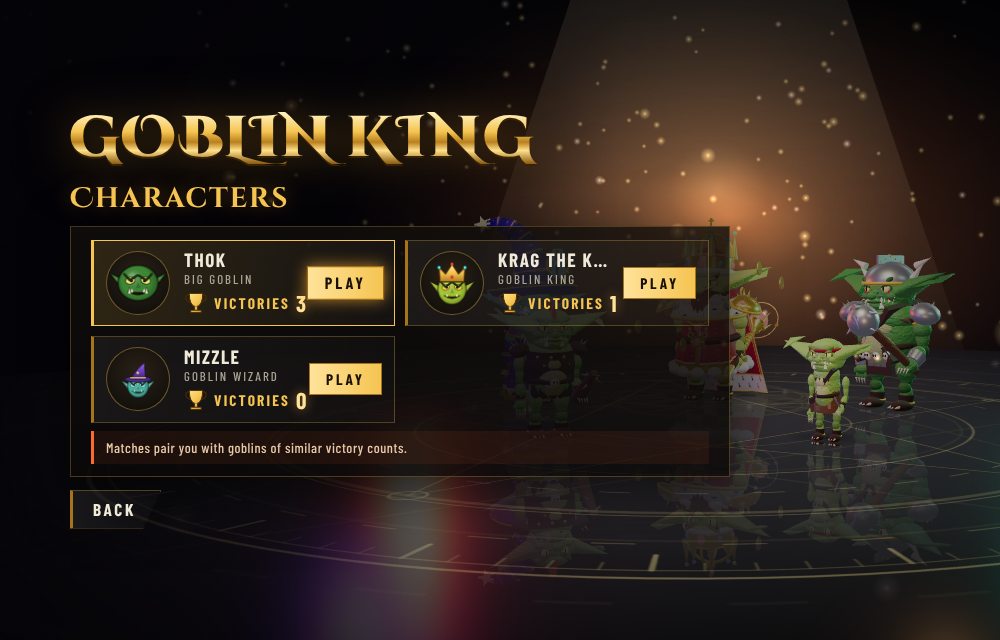
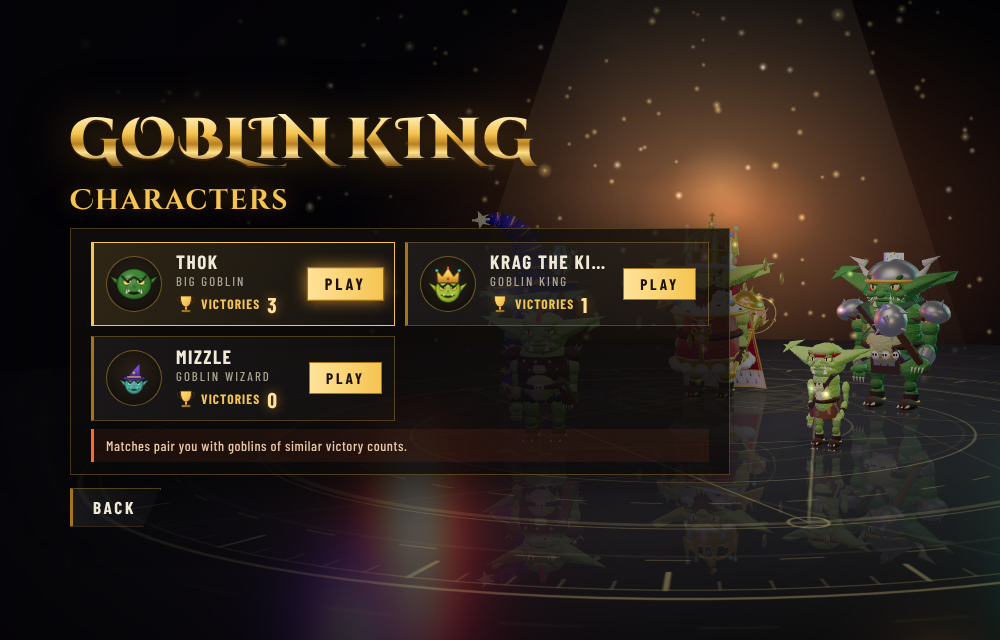
Goblin brain item, recycler server, agent progress
Claude-Session: https://claude.ai/code/session_01DoWV5Cryftzycvs2knrXTv

diff --git a/game.js b/game.js
@@ -152,7 +152,7 @@ const vaultM = M(0x70787f, { map: steelTex, metalness: 0.9, roughness: 0.38, env
 const darkSteel = M(0x2a2e35, { metalness: 0.8, roughness: 0.45, envMapIntensity: 0.9 });
 const hazardM = M(0xffffff, { map: hazardTex, roughness: 0.6 });
 const glassM = new THREE.MeshStandardMaterial({ color: 0x07131c, roughness: 0.05, metalness: 0.2, emissive: 0x0b3a55, emissiveIntensity: 0.8 });
-const panelM = new THREE.MeshBasicMaterial({ color: new THREE.Color(0xfff6e6).multiplyScalar(6), toneMapped: false });   // HDR so the bloom pass picks the ceiling panels up
+const panelM = new THREE.MeshBasicMaterial({ color: new THREE.Color(0xfff6e6).multiplyScalar(2.4), toneMapped: false });   // HDR so the bloom pass picks the ceiling panels up
 const aoM = new THREE.MeshBasicMaterial({ map: aoTex, transparent: true, depthWrite: false, polygonOffset: true, polygonOffsetFactor: -2, polygonOffsetUnits: -2, side: THREE.DoubleSide, fog: false });
 const cornerM = new THREE.MeshBasicMaterial({ map: cornerTex, transparent: true, depthWrite: false, polygonOffset: true, polygonOffsetFactor: -2, polygonOffsetUnits: -2, side: THREE.DoubleSide });
 
@@ -670,7 +670,7 @@ const chestSlots = [];                    // per chest room: {holder, glow, labe
   const rnd = (() => { let s = 1234567; return () => (s = (s * 1664525 + 1013904223) >>> 0) / 4294967296; })();
   const addGlow = (parent, color, size, op, x, y, z) => {
     const s = new THREE.Sprite(new THREE.SpriteMaterial({ map: glowTex, color, transparent: true, opacity: op, blending: THREE.AdditiveBlending, depthWrite: false, fog: false }));
-    s.scale.set(size, size, 1); s.position.set(x, y, z); parent.add(s); return s;
+    s.material.userData.own = true; s.scale.set(size, size, 1); s.position.set(x, y, z); parent.add(s); return s;
   };
   // ----- textures and materials -----
   const woodTex = canvasTex(256, 256, (g, w, h) => {
@@ -836,9 +836,185 @@ const chestSlots = [];                    // per chest room: {holder, glow, labe
   const labelMats = [];
   const getLabel = i => labelMats[i] || (labelMats[i] = new THREE.SpriteMaterial({ map: textTex(WEAPONS[i], '#' + RARITY[i].toString(16).padStart(6, '0'), 'rgba(12,8,4,.55)', 512, 96, 'bold 54px system-ui'), transparent: true, depthWrite: false, fog: false }));
 
-  // ----- chest rooms -----
+  // ----- more weapon families (club, crossbow, flail, halberd, hammer, staff, scepter) + tier styling -----
+  const rodBetween = (p, a, b, r, mat) => { const d = new THREE.Vector3().subVectors(b, a), m = new THREE.Mesh(new THREE.CylinderGeometry(r, r, d.length(), 6), mat); m.position.copy(a).addScaledVector(d, 0.5); m.quaternion.setFromUnitVectors(new THREE.Vector3(0, 1, 0), d.normalize()); p.add(m); return m; };
+  const crystalM = new THREE.MeshStandardMaterial({ color: 0x66aaff, emissive: 0x3377ff, emissiveIntensity: 1.6, roughness: 0.2, metalness: 0.1 });
+  const spikeRing = (p, cx, cy, n, r, len, mat) => { for (let i = 0; i < n; i++) { const y = 1 - (i + 0.5) * 2 / n, rr = Math.sqrt(1 - y * y), a = i * 2.39996, d = new THREE.Vector3(Math.cos(a) * rr, y, Math.sin(a) * rr); const c = cone(p, 0.03, len, mat, 0, 6); c.position.set(cx + d.x * r, cy + d.y * r, d.z * r); c.quaternion.setFromUnitVectors(new THREE.Vector3(0, 1, 0), d); } };
+  builders.push(
+    p => { // 6 club
+      cy2(p, 0.035, 0.11, 1.0, hwoodM, 0, 12); cy2(p, 0.04, 0.04, 0.28, leatherM, -0.34); wrap(p, -0.46, -0.22, 0.041, 5); ball(p, 0.05, goldM, -0.52);
+      for (let i = 0; i < 9; i++) { const a = i * 2.4, d = new THREE.Vector3(Math.cos(a), 0, Math.sin(a)), c = cone(p, 0.022, 0.1, steel2, 0, 6); c.position.set(d.x * 0.1, 0.18 + (i % 3) * 0.13, d.z * 0.1); c.quaternion.setFromUnitVectors(new THREE.Vector3(0, 1, 0), d); }
+    },
+    p => { // 7 crossbow
+      bx(p, 0.07, 1.0, 0.1, 0, 0, 0, hwoodM, 1); bx(p, 0.1, 0.3, 0.12, 0, -0.45, 0, hwoodM, 1);
+      for (const s of [-1, 1]) { const l = bx(p, 0.5, 0.045, 0.05, s * 0.24, 0.32, 0, steel2, 1); l.rotation.z = s * 0.25; rodBetween(p, new THREE.Vector3(s * 0.47, 0.38, 0), new THREE.Vector3(0, 0.02, 0), 0.006, leatherM); }
+      cy2(p, 0.012, 0.012, 0.55, hwoodM, 0.3, 6).position.z = 0.07; cone(p, 0.03, 0.12, steel2, 0.62, 4).position.z = 0.07; bx(p, 0.1, 0.02, 0.1, 0, 0.58, 0, goldM, 1);
+      const st = new THREE.Mesh(new THREE.TorusGeometry(0.06, 0.012, 6, 14), ironM); st.position.y = 0.5; st.rotation.y = Math.PI / 2; p.add(st);
+    },
+    p => { // 8 flail
+      cy2(p, 0.03, 0.03, 0.7, hwoodM, -0.2, 10); cy2(p, 0.036, 0.036, 0.26, leatherM, -0.4); ball(p, 0.045, goldM, -0.58); cy2(p, 0.05, 0.05, 0.04, goldM, 0.16);
+      for (let i = 0; i < 5; i++) { const l = new THREE.Mesh(new THREE.TorusGeometry(0.035, 0.01, 6, 10), ironM); l.position.set(0.03 + i * 0.07, 0.24 + i * 0.07 - i * i * 0.006, 0); l.rotation.y = (i & 1) * Math.PI / 2; p.add(l); }
+      ball(p, 0.13, spikeM, 0).position.set(0.42, 0.5, 0); spikeRing(p, 0.42, 0.5, 12, 0.14, 0.14, spikeM);
+    },
+    p => { // 9 halberd
+      cy2(p, 0.025, 0.025, 1.9, hwoodM, 0, 10); cone(p, 0.045, 0.34, steel2, 1.12, 4); cy2(p, 0.04, 0.04, 0.05, goldM, 0.94); cy2(p, 0.04, 0.04, 0.05, goldM, 0.6); cy2(p, 0.036, 0.036, 0.3, leatherM, -0.2); cy2(p, 0.02, 0.02, 0.06, steel2, -0.97, 6);
+      const s = new THREE.Shape(); s.moveTo(0, 0.56); s.lineTo(0.4, 0.46); s.quadraticCurveTo(0.5, 0.22, 0.36, 0.0); s.lineTo(0, 0.14); s.closePath();
+      const g = new THREE.ExtrudeGeometry(s, { depth: 0.03, bevelEnabled: true, bevelSize: 0.012, bevelThickness: 0.012, bevelSegments: 1 }); g.translate(0.02, 0, -0.015);
+      const h = new THREE.Mesh(g, bladeM); h.position.y = 0.42; p.add(h); const hk = cone(p, 0.03, 0.24, steel2, 0.7, 5); hk.rotation.z = Math.PI / 2; hk.position.x = -0.12;
+    },
+    p => { // 10 warhammer
+      cy2(p, 0.03, 0.03, 1.3, hwoodM, 0, 10); cy2(p, 0.036, 0.036, 0.3, leatherM, -0.3); wrap(p, -0.42, -0.18, 0.037, 5); ball(p, 0.05, goldM, -0.66);
+      bx(p, 0.5, 0.22, 0.22, 0, 0.58, 0, ironM, 1); for (const s of [-1, 1]) bx(p, 0.04, 0.26, 0.26, s * 0.2, 0.58, 0, goldM, 1);
+      const sp = cone(p, 0.05, 0.22, spikeM, 0.58, 4); sp.rotation.z = Math.PI / 2; sp.position.x = -0.35; cone(p, 0.05, 0.2, spikeM, 0.78, 4);
+    },
+    p => { // 11 staff
+      cy2(p, 0.04, 0.03, 0.7, hwoodM, -0.55, 8).position.x = 0.01; cy2(p, 0.03, 0.04, 0.6, hwoodM, 0.05, 8).position.x = -0.015; cy2(p, 0.04, 0.03, 0.4, hwoodM, 0.55, 8);
+      for (const [y, a] of [[-0.3, 0.8], [0.2, 3], [0.45, 5]]) { const k = ball(p, 0.045, hwoodM, y); k.position.x = Math.cos(a) * 0.035; k.position.z = Math.sin(a) * 0.035; }
+      for (let i = 0; i < 4; i++) { const a = i * Math.PI / 2, c = cone(p, 0.028, 0.34, hwoodM, 0.88, 6); c.position.set(Math.cos(a) * 0.09, 0.88, Math.sin(a) * 0.09); c.rotation.set(Math.sin(a) * 0.25, 0, -Math.cos(a) * 0.25); }
+      ball(p, 0.1, crystalM, 0.92); cy2(p, 0.03, 0.03, 0.2, leatherM, -0.2); wrap(p, -0.28, -0.12, 0.034, 4);
+    },
+    p => { // 12 scepter
+      cy2(p, 0.03, 0.03, 1.0, goldM, 0, 12); for (const y of [-0.25, 0.1, 0.38]) { const r = new THREE.Mesh(new THREE.TorusGeometry(0.05, 0.016, 8, 16), goldM); r.rotation.x = Math.PI / 2; r.position.y = y; p.add(r); }
+      ball(p, 0.06, goldM, -0.52); ball(p, 0.07, goldM, 0.5);
+      for (let i = 0; i < 5; i++) { const a = i * 1.2566, c = cone(p, 0.03, 0.2, goldM, 0.66, 5); c.position.set(Math.cos(a) * 0.09, 0.66, Math.sin(a) * 0.09); c.rotation.set(Math.sin(a) * 0.2, 0, -Math.cos(a) * 0.2); }
+      ball(p, 0.08, gemMs[0], 0.64);
+    },
+  );
+  WSCALE.push(1.3, 1.25, 1.3, 0.75, 1.0, 0.8, 1.3);
+  const FAM = { sword: 0, axe: 1, spear: 2, mace: 3, bow: 4, dagger: 5, club: 6, crossbow: 7, flail: 8, halberd: 9, hammer: 10, staff: 11, scepter: 12 };
+  const LEGACY_KEYS = ['w:sword', 'w:axe', 'w:spear', 'w:mace', 'w:bow', 'w:dagger'];
+  const TIERS = {
+    common: { col: 0xcfd8e0, size: 1, aura: 0 }, class: { col: 0xff9a3c, size: 1.05, aura: 0.25 },
+    uncommon: { col: 0x6dff8a, size: 1.04, aura: 0.08, tint: [0xb4ffc4, 0x0c4a1a] }, rare: { col: 0x6aa8ff, size: 1.08, aura: 0.3, tint: [0x9cc4ff, 0x103a9a] },
+    epic: { col: 0xc08bff, size: 1.12, aura: 0.55, tint: [0xdcb6ff, 0x4a1a8a] }, legendary: { col: 0xffc040, size: 1.18, aura: 0.85, tint: [0xffe8a0, 0x8a5a00], sparks: 6 },
+  };
+  const itemOf = key => (window.GKITEMS && window.GKITEMS.ITEMS && window.GKITEMS.ITEMS[key]) || null;
+  const hex6 = c => '#' + c.toString(16).padStart(6, '0');
+  const tintCache = new Map();
+  const tinted = (m, tier) => { const t = TIERS[tier]; if (!t || !t.tint) return m; const k = m.uuid + tier; let c = tintCache.get(k); if (!c) { c = m.clone(); c.color.multiply(new THREE.Color(t.tint[0])); c.emissive = new THREE.Color(t.tint[1]); c.emissiveIntensity = tier === 'uncommon' ? 0.35 : 0.8; tintCache.set(k, c); } return c; };
+  const auraMats = {};
+  const auraMat = tier => auraMats[tier] || (auraMats[tier] = new THREE.SpriteMaterial({ map: glowTex, color: TIERS[tier].col, transparent: true, opacity: 0.18 + 0.3 * TIERS[tier].aura, blending: THREE.AdditiveBlending, depthWrite: false, fog: false }));
+  const sparkMat = new THREE.SpriteMaterial({ map: glowTex, color: 0xfff2b0, transparent: true, opacity: 0.9, blending: THREE.AdditiveBlending, depthWrite: false, fog: false });
+  const tierProtos = new Map(), keepGeo = new Set();
+  chestProto.traverse(o => o.geometry && keepGeo.add(o.geometry));
+  function tierProto(fam, tier) {
+    const k = fam + '|' + tier; let w = tierProtos.get(k); if (w) return w;
+    const t = TIERS[tier] || TIERS.common; w = getWeapon(fam).clone(); w.traverse(o => { if (o.geometry) keepGeo.add(o.geometry); if (o.isMesh && t.tint) o.material = tinted(o.material, tier); });
+    w.scale.setScalar(t.size);
+    if (t.aura > 0) { const s = new THREE.Sprite(auraMat(tier)); s.scale.setScalar(1.4 + t.aura * 1.4); s.position.y = 0.15; s.renderOrder = 4; w.add(s); }
+    if (t.sparks) for (let i = 0; i < t.sparks; i++) { const s = new THREE.Sprite(sparkMat); s.scale.setScalar(0.1 + (i % 3) * 0.05); const a = i * 1.7; s.position.set(Math.cos(a) * 0.35, -0.5 + i * 0.22, Math.sin(a) * 0.35); w.add(s); }
+    tierProtos.set(k, w); return w;
+  }
+  function armorModel(it) {
+    const tier = it.tier || 'common', t = TIERS[tier] || TIERS.common, fam = it.family;
+    const base = fam === 'cloth' ? 0x9a8a68 : fam === 'leather' ? 0x7a4e2c : fam === 'harness' ? 0x6a3a28 : fam === 'robe' ? 0x3a2a8a : fam === 'royal' ? 0x8a1020 : 0xaab3c0;
+    const metal = fam === 'mail' || fam === 'plate';
+    let mm = M(base, { roughness: metal ? 0.35 : 0.85, metalness: metal ? 0.9 : 0.05, envMapIntensity: metal ? 1.6 : 0.4 }); if (t.tint) mm = tinted(mm, tier);
+    const g = new THREE.Group(), sc = 0.85 * t.size;
+    const body = new THREE.Mesh(new THREE.CylinderGeometry(0.32, 0.26, 0.62, 14), mm); g.add(body);
+    for (const s of [-1, 1]) { const sh = ball(g, 0.15, mm, 0.28); sh.position.x = s * 0.34; sh.scale.set(1.1, 0.8, 1); const sl = new THREE.Mesh(new THREE.CylinderGeometry(0.1, 0.09, 0.3, 10), mm); sl.position.set(s * 0.43, 0.14, 0); sl.rotation.z = s * 0.3; g.add(sl); }
+    const nk = new THREE.Mesh(new THREE.TorusGeometry(0.13, 0.04, 8, 14), mm); nk.rotation.x = Math.PI / 2; nk.position.y = 0.31; g.add(nk);
+    const belt = new THREE.Mesh(new THREE.CylinderGeometry(0.28, 0.28, 0.07, 14), leatherM); belt.position.y = -0.12; g.add(belt); bx(g, 0.1, 0.09, 0.05, 0, -0.12, 0.28, goldM, 1);
+    if (fam === 'plate') for (let i = 0; i < 3; i++) bx(g, 0.5, 0.025, 0.04, 0, 0.12 - i * 0.14, 0.31, goldM, 1);
+    g.scale.setScalar(sc);
+    const w = new THREE.Group(); w.add(g); if (t.aura > 0) { const s = new THREE.Sprite(auraMat(tier)); s.scale.setScalar(1.3 + t.aura * 1.3); w.add(s); }
+    w.traverse(o => o.geometry && keepGeo.add(o.geometry)); return w;
+  }
+  const armorProtos = new Map();
+  function weaponModel(key) {   // fresh Object3D for any item key ('w:axe', 'a:chain', ...), a family name or a legacy chest index; built along +y, ~1.5 m tall
+    if (typeof key === 'number') key = LEGACY_KEYS[key] || 'w:sword';
+    let it = itemOf(key) || itemOf('w:' + key);
+    if (!it) it = { type: 'weapon', family: FAM[String(key).replace(/^w:/, '')] != null ? String(key).replace(/^w:/, '') : 'sword', tier: 'common' };
+    if (it.type === 'armor') { const k = it.key || key; let a = armorProtos.get(k); if (!a) armorProtos.set(k, a = armorModel(it)); return a.clone(); }
+    const fam = FAM[it.family] != null ? FAM[it.family] : 0;
+    return tierProto(fam, it.tier || 'common').clone();
+  }
+  const labelCache = new Map();
+  const labelFor = key => {   // shared sprite material: 'Battle Axe · 30 dmg' in the tier colour
+    if (typeof key === 'number') key = LEGACY_KEYS[key] || 'w:sword'; let m = labelCache.get(key); if (m) return m;
+    const it = itemOf(key) || { name: String(key), attack: 0, tier: 'common' }, t = TIERS[it.tier] || TIERS.common;
+    m = new THREE.SpriteMaterial({ map: textTex(it.name + (it.attack != null && it.type !== 'armor' ? ' \u00b7 ' + it.attack + ' dmg' : it.health ? ' \u00b7 ' + it.health + ' HP' : ''), hex6(t.col), 'rgba(12,8,4,.6)', 640, 96, 'bold 46px system-ui'), transparent: true, depthWrite: false, fog: false });
+    labelCache.set(key, m); return m;
+  };
+
+  // ----- shared toolkit for the room interiors and the stations -----
   const CW = CS / 2, IN = CW - T / 2;
-  const roomTick = [];
+  const slots = [];                         // per outer room: { cr, g (shell group), shell, inner (rebuildable interior group), flames, built }
+  const cacheM = new Map(), cache = (k, f) => { let v = cacheM.get(k); if (v === undefined) { v = f(); cacheM.set(k, v); } return v; };
+  const kgeo = (k, f) => cache('g:' + k, () => { const g = f(); keepGeo.add(g); return g; });
+  const mat = (k, f) => cache('m:' + k, f);
+  const ctex = (k, w, h, draw, clamp = true) => cache('t:' + k, () => { const t = canvasTex(w, h, draw); if (clamp) t.wrapS = t.wrapT = THREE.ClampToEdgeWrapping; return t; });
+  const GB = kgeo('box', () => new THREE.BoxGeometry(1, 1, 1)), GS = kgeo('sph', () => new THREE.SphereGeometry(1, 20, 14)), GC = kgeo('cyl', () => new THREE.CylinderGeometry(1, 1, 1, 20)), GN = kgeo('cone', () => new THREE.ConeGeometry(1, 1, 14)), GP = kgeo('pln', () => new THREE.PlaneGeometry(1, 1));
+  const mkm = (p, geo, m, x, y, z, sx = 1, sy = sx, sz = sx) => { const o = new THREE.Mesh(geo, m); o.position.set(x, y, z); o.scale.set(sx, sy, sz); p.add(o); return o; };
+  const sph = (p, m, x, y, z, a, b = a, c = a) => mkm(p, GS, m, x, y, z, a, b, c);
+  const box = (p, m, x, y, z, w, h, d) => mkm(p, GB, m, x, y, z, w, h, d);
+  const cyl2 = (p, m, x, y, z, r, h) => mkm(p, GC, m, x, y, z, r, h, r);
+  const cne = (p, m, x, y, z, r, h) => mkm(p, GN, m, x, y, z, r, h, r);
+  const pln = (p, m, x, y, z, w, h) => mkm(p, GP, m, x, y, z, w, h, 1);
+  const tapG = (rt, rb, seg) => kgeo('tap' + rt + ',' + rb + ',' + seg, () => new THREE.CylinderGeometry(rt, rb, 1, seg));
+  const tap = (p, m, x, y, z, rt, rb, h, seg = 16) => mkm(p, tapG(rt, rb, seg), m, x, y, z, 1, h, 1);
+  const tor = (p, m, x, y, z, r, tube) => mkm(p, kgeo('tor' + (tube / r).toFixed(3), () => new THREE.TorusGeometry(1, tube / r, 8, 24)), m, x, y, z, r);
+  const tickList = [];                      // { root, fn(t, dt) }: run every frame while root is part of the scene
+  const addTick = (root, fn) => tickList.push({ root, fn });
+  const attached = o => { while (o.parent) o = o.parent; return o === scene; };
+  const freezeTree = root => root.traverse(o => { if (chestDyn.has(o)) return; o.updateMatrix(); o.matrixAutoUpdate = false; });
+  const dyn = o => { chestDyn.add(o); o.matrixAutoUpdate = true; return o; };
+  const disposeTree = root => root.traverse(o => {
+    chestDyn.delete(o);
+    if (o.geometry && !keepGeo.has(o.geometry)) o.geometry.dispose();
+    if (o.isInstancedMesh) o.dispose();
+    if (o.material && o.material.userData && o.material.userData.own) o.material.dispose();
+  });
+  const targetsOf = (arr, pred) => { for (let i = arr.length; i--;) if (pred(arr[i])) arr.splice(i, 1); };
+  GK.merchantTargets = GK.merchantTargets || []; GK.stationTargets = GK.stationTargets || [];
+  const prune = () => {
+    for (let i = chestSlots.length; i--;) if (!attached(chestSlots[i].holder)) chestSlots.splice(i, 1);
+    for (let i = tickList.length; i--;) if (!attached(tickList[i].root)) tickList.splice(i, 1);
+    targetsOf(GK.merchantTargets, o => !attached(o)); targetsOf(GK.stationTargets, o => !attached(o));
+  };
+  const nameSprites = new Map();
+  const nameplate = (parent, text, x, y, z, w = 2.4, col = '#ffe9a8') => {   // floating label, readable from the overview camera
+    let m = nameSprites.get(text + col); if (!m) nameSprites.set(text + col, m = new THREE.SpriteMaterial({ map: textTex(text, col, 'rgba(20,12,6,.7)', 512, 96, 'bold 52px system-ui'), transparent: true, depthWrite: false, fog: false }));
+    const s = new THREE.Sprite(m); s.scale.set(w, w * 96 / 512, 1); s.position.set(x, y, z); s.renderOrder = 6; parent.add(s); return s;
+  };
+  const plaqueMats = new Map();
+  const plaque = (parent, text, x, y, z, w, h, rotY = 0) => {   // framed brass plate on a wall or post (local +z faces the viewer)
+    let m = plaqueMats.get(text); if (!m) plaqueMats.set(text, m = new THREE.MeshStandardMaterial({ map: canvasTex(512, 128, (g, cw, ch) => {
+      g.fillStyle = '#2a1a0c'; g.fillRect(0, 0, cw, ch); g.strokeStyle = '#d9a82b'; g.lineWidth = 8; g.strokeRect(6, 6, cw - 12, ch - 12); g.lineWidth = 2; g.strokeRect(18, 18, cw - 36, ch - 36);
+      g.fillStyle = '#ffe9a8'; g.font = 'bold 62px system-ui'; g.textAlign = 'center'; g.textBaseline = 'middle'; g.fillText(text, cw / 2, ch / 2 + 4);
+    }), roughness: 0.6, metalness: 0.3, emissive: 0xffffff, emissiveIntensity: 0.12 }));
+    plaqueMats.get(text).emissiveMap = plaqueMats.get(text).map;
+    const o = pln(parent, m, x, y, z, w, h); o.rotation.y = rotY; return o;
+  };
+
+  // ----- the chest kit: one implementation of the chest + dais + floating weapon -----
+  function setSlotWeapon(s, k) {   // k: item key string ('w:axe'), family name or legacy index
+    if (k == null) return; if (typeof k === 'number') k = LEGACY_KEYS[k]; if (!k) return;
+    if (s.cur === k) return; s.cur = k;
+    while (s.holder.children.length) s.holder.remove(s.holder.children[0]);
+    const m = weaponModel(k); m.rotation.z = 0.35; s.holder.add(m);
+    m.traverse(o => { o.matrixAutoUpdate = false; o.updateMatrix(); }); m.matrixAutoUpdate = true;
+    const it = itemOf(k), t = TIERS[(it && it.tier) || 'common'] || TIERS.common;
+    s.wglow.material.color.setHex(t.col); s.label.material = labelFor(k); s.label.visible = true; s.holder.updateMatrixWorld(true);
+  }
+  function chestKitBuild(parent, x, z, rotY, opts = {}) {
+    const chest = chestProto.clone(); chest.position.set(x, 0, z); chest.rotation.y = rotY || 0; parent.add(chest);
+    const pool = new THREE.Mesh(new THREE.PlaneGeometry(5.5, 5.5), new THREE.MeshBasicMaterial({ map: glowTex, color: 0xffb040, transparent: true, opacity: 0.35, blending: THREE.AdditiveBlending, depthWrite: false, fog: false })); pool.material.userData.own = true; pool.rotation.x = -Math.PI / 2; pool.position.set(0, 0.02, 0.8); chest.add(pool);
+    const sh = new THREE.Group(); sh.position.set(0, 1.0, 0); chest.add(sh);
+    for (let k = 0; k < 2; k++) { const pl = new THREE.Mesh(new THREE.PlaneGeometry(1.1, 3.4), shaftM); pl.position.y = 1.7; pl.rotation.y = k * Math.PI / 2; pl.renderOrder = 3; sh.add(pl); }
+    const glow = addGlow(chest, 0xffd060, 1.9, 0.6, 0, 1.2, 0); chestDyn.add(glow);
+    const holder = new THREE.Group(); holder.position.set(0, 2.0, 0); chest.add(holder); chestDyn.add(holder);
+    const wglow = addGlow(chest, 0xffffff, 1.8, 0.28, 0, 2.0, 0); chestDyn.add(wglow);
+    const label = new THREE.Sprite(labelFor('w:sword')); label.scale.set(2.9, 0.43, 1); label.position.set(0, 3.75, 0); label.renderOrder = 5; chest.add(label); chestDyn.add(label); label.visible = false;
+    const s = { holder, glow, wglow, label, cur: null, ph: (opts.id || 0) * 1.7 + (opts.id == null ? Math.random() * 6 : 0), base: 2.0, chest, id: opts.id };
+    chestSlots.push(s); freezeTree(chest); s.setWeapon = k => setSlotWeapon(s, k);
+    if (opts.weapon != null) setSlotWeapon(s, opts.weapon);
+    return s;
+  }
+  GK.chestKit = { buildChest: chestKitBuild, weaponModel, labelFor, setWeapon: setSlotWeapon, dispose: root => { disposeTree(root); } };
+  GK.disposeKit = root => { disposeTree(root); prune(); };
+  // ----- chest rooms -----
+  const roomTickUnused = [];
   for (const cr of CHEST_ROOMS) {
     const g = new THREE.Group(); g.position.set(cr.cx, 0, cr.cz); g.rotation.y = Math.atan2(-cr.dx, -cr.dz); scene.add(g);  // local +z faces the door
     bx(g, CS, 0.4, CS, 0, -0.2, 0, cFloorM, CS);
@@ -2270,7 +2446,7 @@ function fxResize() {
     const rt = new THREE.WebGLRenderTarget(innerWidth * pr, innerHeight * pr, { type: THREE.HalfFloatType, samples: 4 });   // MSAA kept inside the composer
     const composer = new EffectComposer(renderer, rt);
     composer.addPass(new RenderPass(scene, cam));
-    const bloom = new UnrealBloomPass(new THREE.Vector2(innerWidth / 2, innerHeight / 2), 0.42, 0.5, 1.5);   // strength, radius, threshold (HDR, linear)
+    const bloom = new UnrealBloomPass(new THREE.Vector2(innerWidth / 2, innerHeight / 2), 0.3, 0.35, 1.7);   // strength, radius, threshold (HDR, linear)
     const bs = bloom.setSize.bind(bloom); bloom.setSize = (w, h) => bs(Math.max(1, w >> 1), Math.max(1, h >> 1));   // bloom at half resolution
     composer.addPass(bloom);
     composer.addPass(new OutputPass());   // tone mapping + sRGB
@@ -2281,7 +2457,7 @@ function fxResize() {
         float hash(vec2 p){ return fract(sin(dot(p, vec2(12.9898, 78.233))) * 43758.5453); }
         void main(){
           vec2 d = vUv - 0.5; float r2 = dot(d, d);
-          vec2 o = d * r2 * 0.014;   // tiny chromatic aberration, zero at the centre
+          vec2 o = d * r2 * 0.006;   // tiny chromatic aberration, zero at the centre
           vec3 c = vec3(texture2D(tDiffuse, vUv + o).r, texture2D(tDiffuse, vUv).g, texture2D(tDiffuse, vUv - o).b);
           c *= 1.0 - 0.34 * smoothstep(0.12, 0.62, r2);   // vignette
           c += (hash(vUv * 1024.0 + fract(uTime) * 61.0) - 0.5) * 0.022;   // film grain

diff --git a/server.js b/server.js
@@ -93,16 +93,17 @@ setInterval(() => { // one global timer steps every match
 // 0 small 30%, 1 medium 30%, 2 big 30%, 3 wizard 9%, 4 king 1%
 // Equipment decides combat stats: attack damage comes from the weapon (items.js), health from the armour.
 const G = require('./items.js'), ITEMS = G.ITEMS;
-const isItem = k => typeof k === 'string' && Object.prototype.hasOwnProperty.call(ITEMS, k);
+const info = k => (typeof k === 'string' && k.length < 40 && G.info(k)) || null; // any item key incl. goblin brains
+const isItem = k => !!info(k);
 const SLOT_IDS = new Set([...Array.from({ length: 9 }, (_, i) => 'b' + i), ...Array.from({ length: 3 }, (_, i) => 'q' + i), 'weapon', 'armor']);
 const getSlot = (inv, id) => id === 'weapon' ? inv.weapon : id === 'armor' ? inv.armor : (id[0] === 'b' ? inv.backpack : inv.quick)[+id.slice(1)];
 const setSlot = (inv, id, v) => { if (id === 'weapon') inv.weapon = v; else if (id === 'armor') inv.armor = v; else (id[0] === 'b' ? inv.backpack : inv.quick)[+id.slice(1)] = v; };
-const fits = (id, key) => key == null || (id === 'weapon' ? ITEMS[key].type === 'weapon' : id === 'armor' ? ITEMS[key].type === 'armor' : true);
+const fits = (id, key) => key == null || (id === 'weapon' ? info(key).type === 'weapon' : id === 'armor' ? info(key).type === 'armor' : true);
 const allItems = inv => [inv.weapon, inv.armor, ...inv.backpack, ...inv.quick].filter(Boolean);
 function recalc(p) { // derived stats from the equipped items
-  const w = p.inv.weapon && ITEMS[p.inv.weapon], a = p.inv.armor && ITEMS[p.inv.armor];
+  const w = p.inv.weapon && info(p.inv.weapon), a = p.inv.armor && info(p.inv.armor);
   const maxHealth = a ? a.health : 10;
-  p.stats = { knowledge: G.KNOWLEDGE[p.goblin], attack: w ? w.attack : 0, health: Math.min(p.stats ? p.stats.health : maxHealth, maxHealth), maxHealth };
+  p.stats = { knowledge: p.stats ? p.stats.knowledge : G.KNOWLEDGE[p.goblin], attack: w ? w.attack : 0, health: Math.min(p.stats ? p.stats.health : maxHealth, maxHealth), maxHealth };
   p.gear = { weapon: w ? w.name : 'None', armor: a ? a.name : 'None' };
 }
 function equip(p, goblin) { // give a player a goblin type with its starting gear and otherwise empty inventory
@@ -167,10 +168,35 @@ function spawn() {
 }
 function die(ws, p) { // a dead player drops everything where they fell and leaves the match
   const m = p.match; if (p.dead || !m) return;
-  const items = allItems(p.inv);
+  const items = allItems(p.inv), brain = G.brainKey(p.stats.knowledge); // the brain carries the victim's CURRENT knowledge
   p.dead = true; leave(m, ws); // the client goes back to the menu or requeues with a new connection
-  addDrop(m, p, items);
-  sendTo(ws, { died: { items } });
+  addDrop(m, p, [...items, brain]);
+  sendTo(ws, { died: { items, brain } });
+}
+function eatBrain(p, key) { // applies a brain's knowledge gain, returns the gain
+  const gain = G.brainGain(key);
+  p.stats.knowledge = Math.round((p.stats.knowledge + gain) * 100) / 100;
+  sendTo(p.ws, { ate: { gain, knowledge: p.stats.knowledge } }); p.match.dirty = true;
+  return gain;
+}
+function eat(p, slot) { // {eat: slotId}
+  if (typeof slot !== 'string' || !/^(b[0-8]|q[0-2])$/.test(slot)) return false;
+  const key = getSlot(p.inv, slot); if (!G.isBrain(key)) return false;
+  setSlot(p.inv, slot, null); eatBrain(p, key); sendInv(p); return true;
+}
+function loot(m, p, a) { // {loot:[dropId, index, 'take'|'eat', expectedKey?]}; returns null or a failure reason
+  if (!Array.isArray(a) || a.length < 3 || a.length > 4 || !Number.isInteger(a[0]) || !Number.isInteger(a[1]) || (a[2] !== 'take' && a[2] !== 'eat')) return 'item';
+  const di = m.drops.findIndex(x => x.id === a[0]), dr = m.drops[di];
+  if (!dr) return 'item';
+  if (Math.hypot(p.x - dr.x, p.z - dr.z) > 3) return 'range';
+  const key = dr.items[a[1]];
+  if (key == null || (a.length === 4 && a[3] !== key)) return 'item';
+  if (a[2] === 'eat') { if (!G.isBrain(key)) return 'item'; }
+  else if (p.inv.backpack.indexOf(null) < 0) return 'space';
+  dr.items.splice(a[1], 1); if (!dr.items.length) m.drops.splice(di, 1);
+  if (a[2] === 'eat') eatBrain(p, key); else giveItem(p, key);
+  bcast(m, { drops: m.drops }); m.dirty = true;
+  return null;
 }
 function win(ws, p) { // everything carried goes home with the winner, nothing is dropped
   const m = p.match; if (p.dead || !m) return;
@@ -210,6 +236,8 @@ wss.on('connection', (ws, req) => {
     } else if (dbg && Array.isArray(d.tp) && d.tp.length === 2 && d.tp.every(v => typeof v === 'number' && Number.isFinite(v))) {
       p.x = clamp(d.tp[0]); p.z = clamp(d.tp[1]); p.box = boxOf(p.x, p.z); p.room = roomKeyOf(p.x, p.z); m.dirty = true;
     } else if (dbg && Number.isFinite(d.gold)) { p.gold = Math.max(0, Math.floor(d.gold)); sendGold(p);
+    } else if (typeof d.eat === 'string') { eat(p, d.eat);
+    } else if (Array.isArray(d.loot)) { const why = loot(m, p, d.loot); if (why) sendTo(ws, { lootFail: why });
     } else if (typeof d.recycle === 'string') {
       const why = recycle(m, p, d.recycle); if (why) sendTo(ws, { recycleFail: why });
     } else if (Array.isArray(d.buy) && d.buy.length === 2) {

diff --git a/icons.js b/icons.js
@@ -23,6 +23,7 @@
   DRAW_FAMILY.flail = g => { g.fillStyle = wood; g.fillRect(-0.035, 0.45, 0.07, 0.48); g.strokeStyle = steel; g.lineWidth = 0.03; g.beginPath(); g.moveTo(0, 0.45); g.quadraticCurveTo(0.22, 0.3, 0.1, 0.18); g.stroke(); g.fillStyle = steel; circ(g, 0.1, 0.16, 0.13); spikes(g, 0.1, 0.16, 0.13, 8); };
   DRAW_FAMILY.halberd = g => { g.fillStyle = wood; g.fillRect(-0.025, 0.12, 0.05, 0.82); g.fillStyle = steel; poly(g, [[0, 0.0], [0.07, 0.16], [-0.07, 0.16]]); poly(g, [[0.02, 0.14], [0.32, 0.1], [0.28, 0.34], [0.02, 0.32]]); poly(g, [[-0.02, 0.2], [-0.16, 0.26], [-0.02, 0.3]]); };
   DRAW_FAMILY.hammer = g => { g.fillStyle = wood; g.fillRect(-0.035, 0.28, 0.07, 0.66); g.fillStyle = steel; g.fillRect(-0.24, 0.08, 0.48, 0.24); g.fillStyle = 'rgba(255,255,255,.35)'; g.fillRect(-0.24, 0.08, 0.48, 0.05); g.fillStyle = dark; g.fillRect(-0.24, 0.17, 0.48, 0.03); };
+  DRAW_FAMILY.brain = g => { const pink = '#e98aa6', dk = '#b5506f'; g.fillStyle = pink; circ(g, -0.14, 0.42, 0.2); circ(g, 0.14, 0.42, 0.2); circ(g, 0, 0.3, 0.2); circ(g, -0.1, 0.58, 0.17); circ(g, 0.1, 0.58, 0.17); g.strokeStyle = dk; g.lineWidth = 0.03; g.lineCap = 'round'; g.beginPath(); g.moveTo(0, 0.18); g.lineTo(0, 0.7); g.stroke(); g.beginPath(); g.arc(-0.16, 0.4, 0.1, 3.4, 5.6); g.stroke(); g.beginPath(); g.arc(0.16, 0.4, 0.1, 3.9, 6.1); g.stroke(); g.beginPath(); g.arc(-0.08, 0.6, 0.08, 3.5, 5.8); g.stroke(); g.beginPath(); g.arc(0.1, 0.6, 0.08, 3.6, 5.9); g.stroke(); g.fillStyle = dk; g.fillRect(-0.05, 0.72, 0.1, 0.12); };
   DRAW_FAMILY.cloth = g => shirt(g, '#9a8a6a', '#5f5240');
   DRAW_FAMILY.leather = g => { shirt(g, '#7a5232', '#3f2a1a'); g.fillStyle = '#c9a74a'; for (let i = 0; i < 4; i++) circ(g, -0.1 + (i % 2) * 0.2, 0.34 + Math.floor(i / 2) * 0.18, 0.025); };
   DRAW_FAMILY.mail = g => { shirt(g, steel, '#4a5058'); g.strokeStyle = 'rgba(0,0,0,.28)'; g.lineWidth = 0.012; for (let y = 0.2; y < 0.88; y += 0.07) { g.beginPath(); g.moveTo(-0.2, y); g.lineTo(0.2, y); g.stroke(); } };
@@ -37,7 +38,7 @@
   function spikes(g, x, y, r, n) { g.fillStyle = steel; for (let i = 0; i < n; i++) { const a = i * 6.2832 / n; poly(g, [[x + Math.cos(a - 0.2) * r, y + Math.sin(a - 0.2) * r], [x + Math.cos(a) * r * 1.5, y + Math.sin(a) * r * 1.5], [x + Math.cos(a + 0.2) * r, y + Math.sin(a + 0.2) * r]]); } }
   function shirt(g, a, b) { poly2(g, [[-0.18, 0.1], [0.18, 0.1], [0.38, 0.28], [0.3, 0.42], [0.22, 0.36], [0.22, 0.9], [-0.22, 0.9], [-0.22, 0.36], [-0.3, 0.42], [-0.38, 0.28]], a, b); }
   function draw(ctx, key, x, y, size) {
-    const it = window.GKITEMS && window.GKITEMS.ITEMS && window.GKITEMS.ITEMS[key], tier = (it && TIER[it.tier]) || TIER.common;
+    const it = window.GKITEMS && (window.GKITEMS.info ? window.GKITEMS.info(key) : window.GKITEMS.ITEMS[key]), tier = (it && TIER[it.tier]) || TIER.common;
     steel = tier[0];
     ctx.save(); ctx.translate(x + size / 2, y + size * 0.04); ctx.scale(size * 0.92, size * 0.92); ctx.lineJoin = 'round';
     if (tier[1]) { const gr = ctx.createRadialGradient(0, 0.5, 0, 0, 0.5, 0.62); gr.addColorStop(0, tier[1] + '77'); gr.addColorStop(1, tier[1] + '00'); ctx.fillStyle = gr; ctx.beginPath(); ctx.arc(0, 0.5, 0.62, 0, 6.2832); ctx.fill(); }

diff --git a/items.js b/items.js
@@ -46,6 +46,16 @@
   const KNOWLEDGE_TIERS = [20, 40, 60, 80, 100];   // the knowledge tree has 5 tiers; tier N needs this much knowledge
   const START_GOLD = 100;   // placeholder starting gold so the merchant can be tried out
 
+  // ---- GOBLIN BRAIN: a dead goblin drops its brain. Eating it gives 5% of the knowledge that goblin had.
+  // A brain is an item key 'm:brain:<knowledge of the dead goblin>' (e.g. 'm:brain:60'); use info(key) to read any item key including brains.
+  const brainKey = knowledge => 'm:brain:' + Math.round(knowledge * 10) / 10;
+  const isBrain = key => typeof key === 'string' && key.startsWith('m:brain:');
+  const brainKnowledge = key => isBrain(key) ? Math.max(0, parseFloat(key.slice(8)) || 0) : 0;
+  const brainGain = key => Math.round(brainKnowledge(key) * 0.05 * 100) / 100;   // knowledge you gain by eating it
+  function info(key) {
+    if (isBrain(key)) { const k = brainKnowledge(key); return { key, type: 'consumable', name: 'Goblin Brain', family: 'brain', tier: 'uncommon', chance: 0, knowledge: k, gain: brainGain(key), desc: 'Eat for +' + brainGain(key) + ' knowledge (5% of ' + k + ')' }; }
+    return ITEMS[key] || null;
+  }
   // ---- RECYCLER: weapons break down into parts (everyone can use a recycler). Yield depends on the weapon family and scales with its tier.
   const PARTS = [['wood', 'Wood'], ['metal', 'Metal'], ['leather', 'Leather'], ['cloth', 'Cloth'], ['gold', 'Gold'], ['bone', 'Bone'], ['gem', 'Gems'], ['string', 'String'], ['crystal', 'Crystal']].map(([key, name]) => ({ key, name }));
   const FAMILY_PARTS = { club: { wood: 3, bone: 1 }, dagger: { metal: 2, leather: 1 }, sword: { metal: 4, leather: 1 }, bow: { wood: 3, string: 2 }, axe: { metal: 3, wood: 2 }, spear: { wood: 3, metal: 2 }, mace: { metal: 3, wood: 2, bone: 1 },
@@ -98,6 +108,6 @@
     return { kind: 'plushie' };
   }
   const CHEST_WEAPONS = ['w:sword', 'w:axe', 'w:spear', 'w:mace', 'w:bow', 'w:dagger'];   // legacy: old 6-entry chest list (indices), kept until the client reads chestKeys
-  root.GKITEMS = { randomShop, START_GOLD, randomMystery, randomLayout, randomWeaponKey, randomArmorKey, WEAPONS, ARMOR, ITEMS, START, KNOWLEDGE, KNOWLEDGE_TIERS, CHEST_WEAPONS, SLOTS, tierOf, PARTS, recycleYield };
+  root.GKITEMS = { randomShop, START_GOLD, randomMystery, randomLayout, randomWeaponKey, randomArmorKey, WEAPONS, ARMOR, ITEMS, START, KNOWLEDGE, KNOWLEDGE_TIERS, CHEST_WEAPONS, SLOTS, tierOf, PARTS, recycleYield, brainKey, isBrain, brainKnowledge, brainGain, info };
   if (typeof module !== 'undefined' && module.exports) module.exports = root.GKITEMS;
 })(typeof window !== 'undefined' ? window : globalThis);
